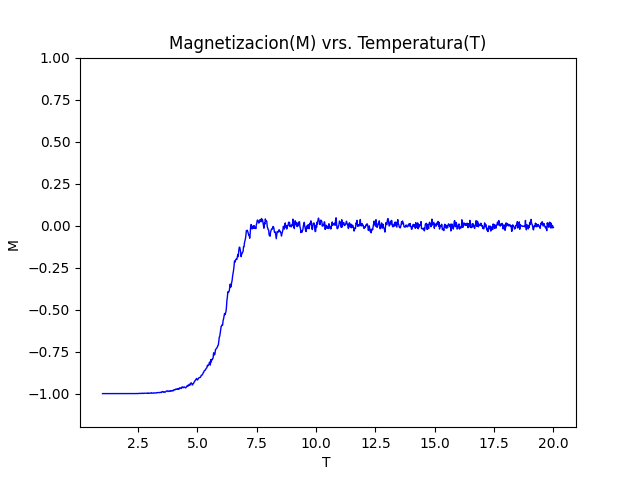
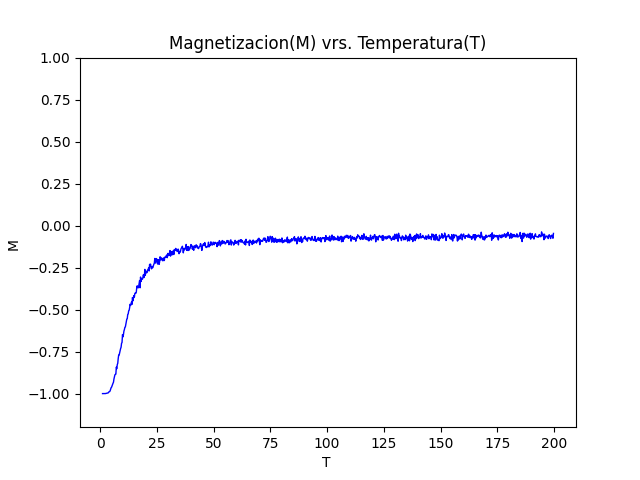
Completed compute time vrs. lattice size simulation.

diff --git a/code/IsingModel2D_H.py b/code/IsingModel2D_H.py
@@ -21,8 +21,8 @@ class isingModel(object): # Ising Model object
     def __init__(self,N,iterations,minTemp, maxTemp, JKb, HKb):
         self.N=N#Dimension del reticulo(red) 
         self.iterations=iterations#Numero de iteraciones
-        self.lattice=np.ones([self.N,self.N])#matriz N*N
-        self.initialLattice=np.ones([self.N,self.N])#inital lattice red inicial
+        #self.lattice=[]#np.ones([self.N,self.N])*-1.0#matriz N*N
+        #self.initialLattice=[]#np.ones([self.N,self.N])*-1.0#inital lattice red inicial
         self.minTemp=minTemp
         self.maxTemp=maxTemp
         self.JKb=JKb
@@ -33,8 +33,8 @@ class isingModel(object): # Ising Model object
 
     def setInitialState(self):#establece el estado aleotorio inicial del reticulo (lattice)
         #self.intialLattice=self.lattice=[[random.choice([-1,1]) for x in range(self.N)] for y in range(self.N)]
-        #self.intialLattice=self.lattice=[[-1 for x in range(self.N)] for y in range(self.N)] 
-        self.intialLattice=np.ones([self.N, self.N])*-1.0
+        #self.initialLattice=self.lattice=[[-1.0 for x in range(self.N)] for y in range(self.N)] 
+        self.lattice=self.initialLattice=np.ones([self.N, self.N])*-1.0
         ''' for i in range(self.N):
         for j in range(self.N):
         self.lattice[i][j]='''
@@ -62,7 +62,7 @@ class isingModel(object): # Ising Model object
             for j in range(self.N):
                 energy+=self.nearestNeighborEnergy(i,j)
         
-        energy+=self.lattice.sum()*self.HKb
+        #energy+=self.lattice.sum()*self.HKb
         
         
              
@@ -74,9 +74,9 @@ class isingModel(object): # Ising Model object
         """
         for i in range(self.N):
             for j in range(self.N):
-                M+=self.lattice[i][j]
+                M+=self.lattice[i][j]"""
                 
-        """
+        
         M=self.lattice.sum()
         return M/(self.N**2)
 
@@ -89,20 +89,21 @@ class isingModel(object): # Ising Model object
 
     # runs the Monte Carlo simulation for the lattice at the given parameters
     def runMonteCarlo(self,T):
-        initial_energy=self.latticeEnergy()
-        deltas_E=[initial_energy]
+        #initial_energy=self.latticeEnergy()
+        #deltas_E=[initial_energy]
         
         for i in range(self.iterations):
             randomX=random.randrange(self.N)
             randomY=random.randrange(self.N)
-            energy=-1*self.nearestNeighborEnergy(randomX,randomY)-1*self.lattice[randomX][randomY]*self.HKb
-            #energy=self.latticeEnergy()
-            delta_energy=deltas_E[i]-energy
-            deltas_E.append(delta_energy)
-            if deltas_E[i+1]>0:
+            energy=1*self.nearestNeighborEnergy(randomX,randomY)+1*self.lattice[randomX][randomY]*self.HKb
+            total_energy=self.latticeEnergy()
+            #delta_energy=deltas_E[i]-energy
+            #deltas_E.append(delta_energy)
+            #if deltas_E[i+1]>0:
+            if energy>0:
                 self.lattice[randomX][randomY]*=-1
-            #elif math.exp(energy/(T*self.JKb))>random.random() :
-            elif math.exp(deltas_E[i+1]/(T))>random.random() :
+            elif math.exp(energy/T*self.JKb)>random.random() :
+            #elif math.exp(deltas_E[i+1]/(T))>random.random() :
             #print(deltas_E[i+1])
             #if math.exp(-deltas_E[i+1]/(T))>random.random() :
                 self.lattice[randomX][randomY]*=-1
@@ -116,7 +117,7 @@ class isingModel(object): # Ising Model object
         step=(self.maxTemp-self.minTemp)/950.0
         T=self.minTemp
         while (T<=self.maxTemp):
-            self.lattice=self.intialLattice
+            self.lattice=self.initialLattice.copy()
             self.runMonteCarlo(T)
             Y.append(self.latticeMagnetization())
             X.append(T)            
@@ -138,7 +139,7 @@ class isingModel(object): # Ising Model object
                 
         
         
-#test=isingModel(100,15000,1,20,5,10);
+#test=isingModel(100,15000,1,200,5,0);
 #print(test.lattice)
 '''print(test.nearestNeighborEnergy(0,0))
 print(test.nearestNeighborEnergy(3,0))
@@ -150,7 +151,9 @@ print(test.nearestNeighborEnergy(3,3))'''
 #test.runMonteCarlo(100)
 #print(test.lattice)
 #print(test.latticeMagnetization())
+#init_lattice=test.lattice
 #test.plotMvrsT()     
+#final_lattice=test.lattice
 #print('Finished')
 '''plt.arrow(10,10,10,10)
 plt.draw()

diff --git a/code/simulations.py b/code/simulations.py
@@ -32,17 +32,19 @@ def time_size_simulation(min_lattice_size=10,
     size_range=range(min_lattice_size, max_lattice_size+step,step)
     for N in size_range:
         ising_model=isingModel(N, iterations, minTemp, maxTemp ,JKb, HKb )
-        initial_magnetization=ising_model.latticeMagnetization()
+        #initial_magnetization=ising_model.latticeMagnetization()
         start_time=time.time()
         ising_model.runMonteCarlo(fixed_T)
-        final_magnetizations.append(ising_model.latticeMagnetization)
+        final_magnetizations.append(ising_model.latticeMagnetization())
         end_time=time.time()
         delta_time=end_time-start_time
         times.append(delta_time)
     return list(size_range), times, final_magnetizations
-
+"""
 lattice_size, times, magnetization=time_size_simulation(fixed_T=1,max_lattice_size=500)
-plt.plot(lattice_size,times)
+plt.xlabel('Tamaño del retículo')
+plt.ylabel('Tiempo de cómputo')
+plt.plot(lattice_size,times)"""
 
 
         
